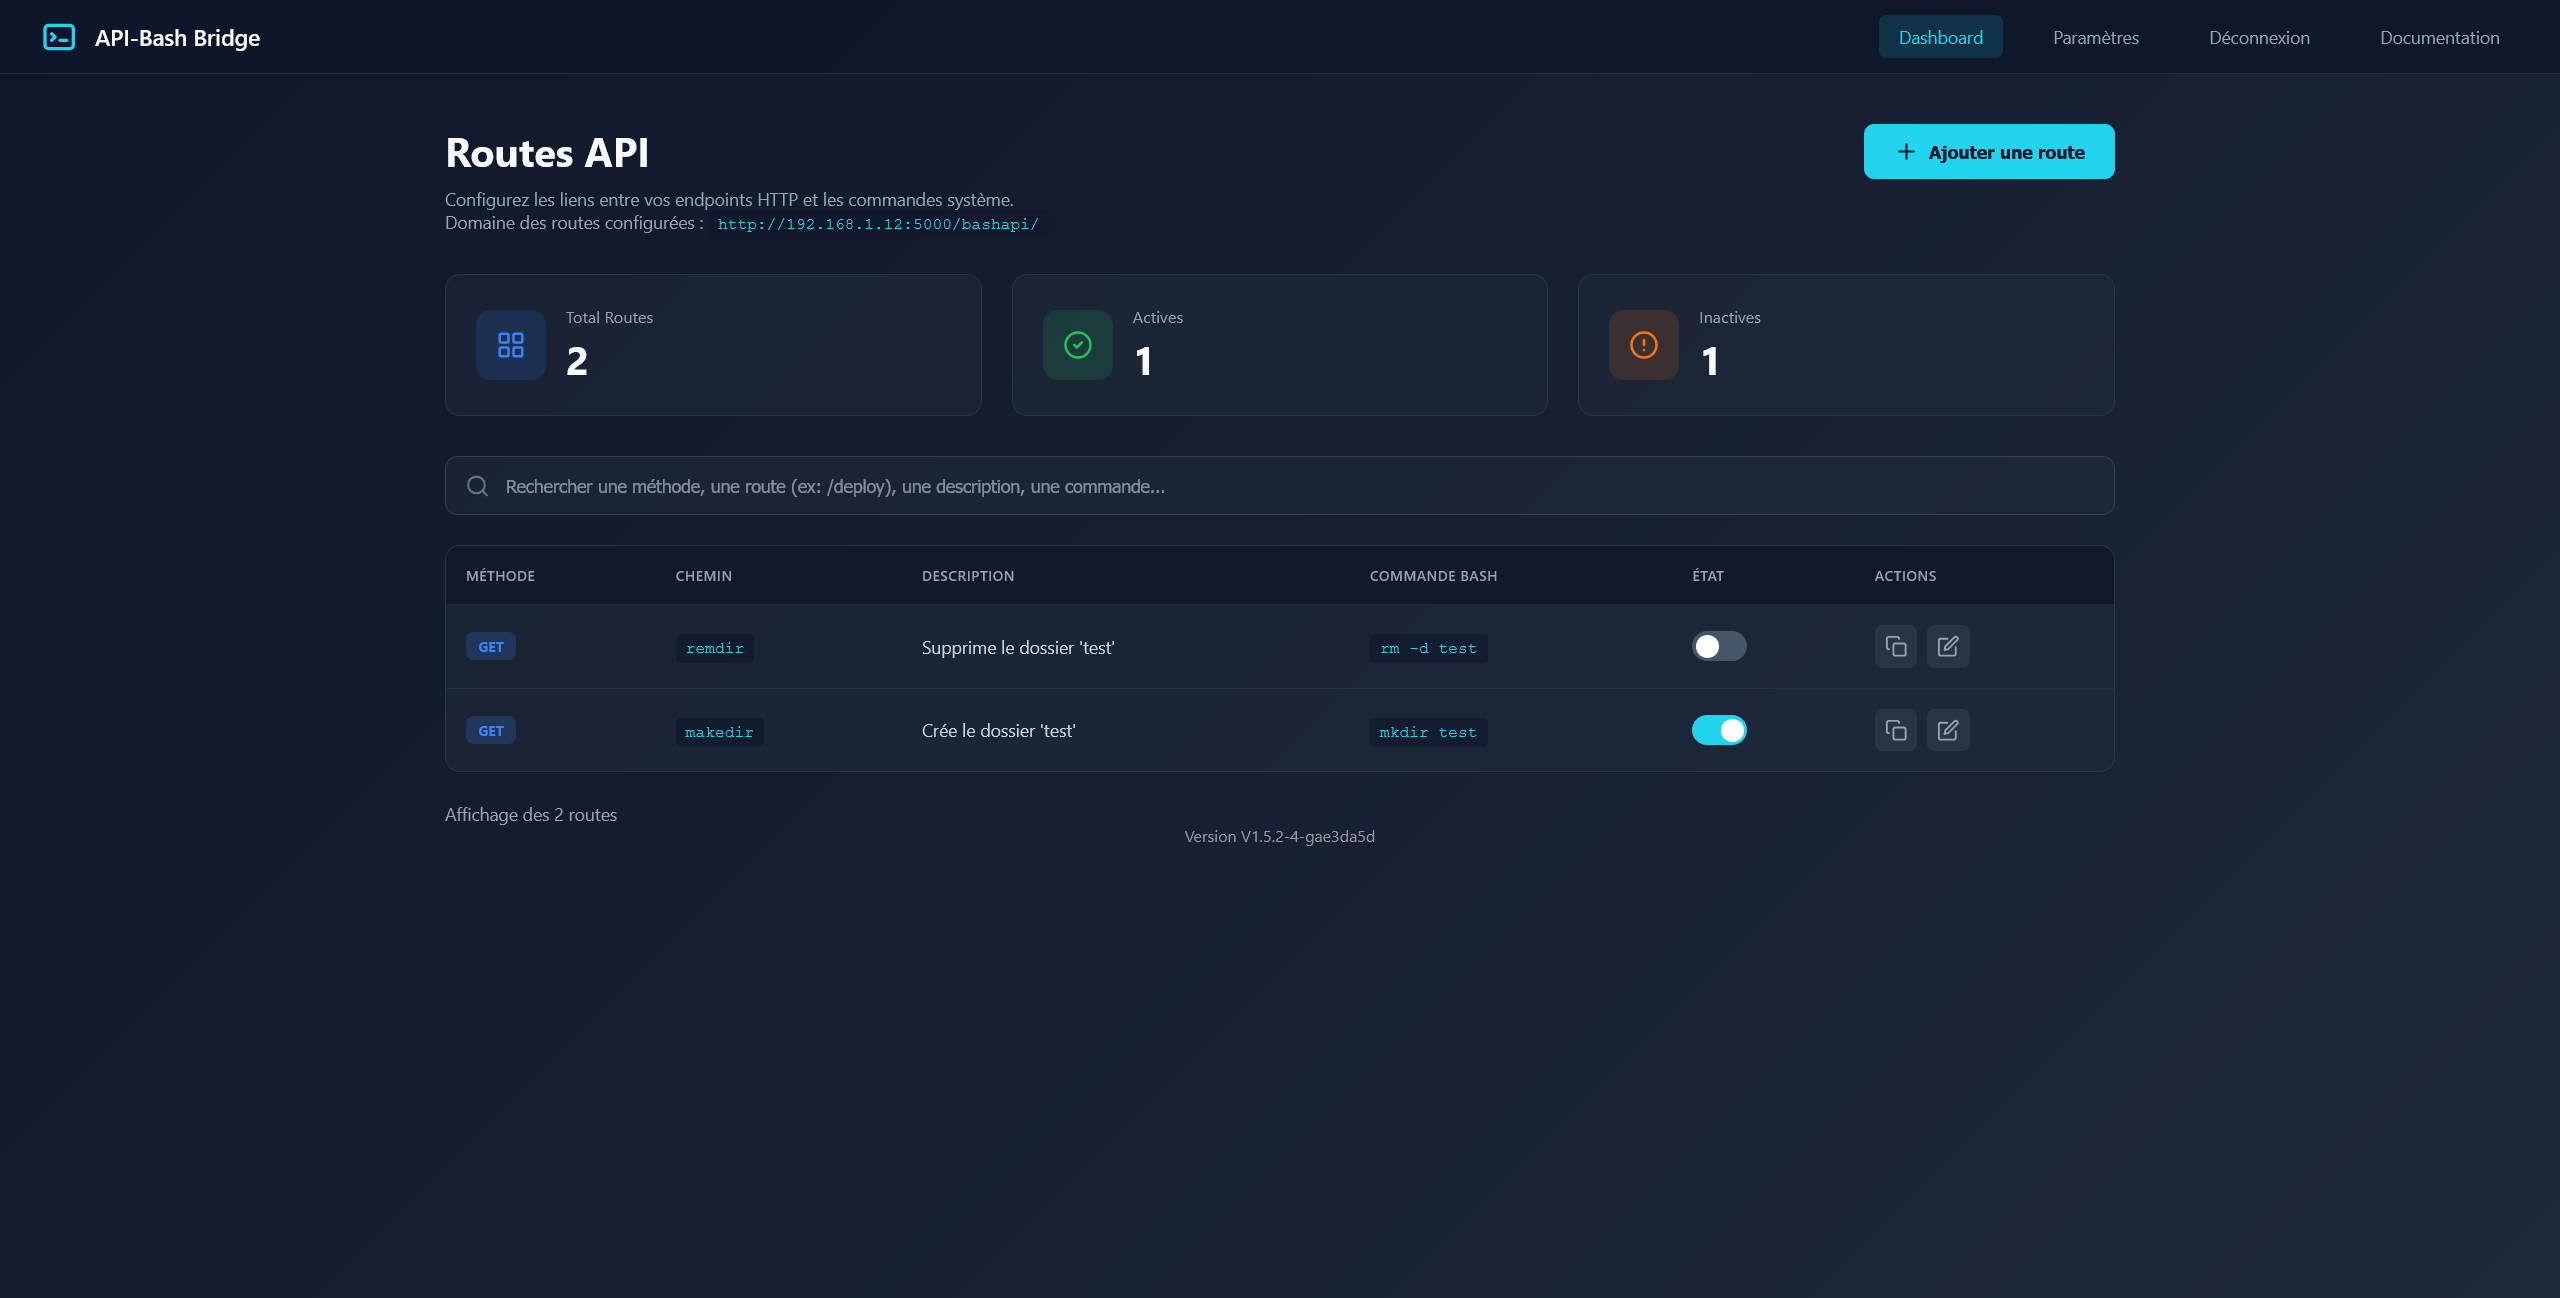
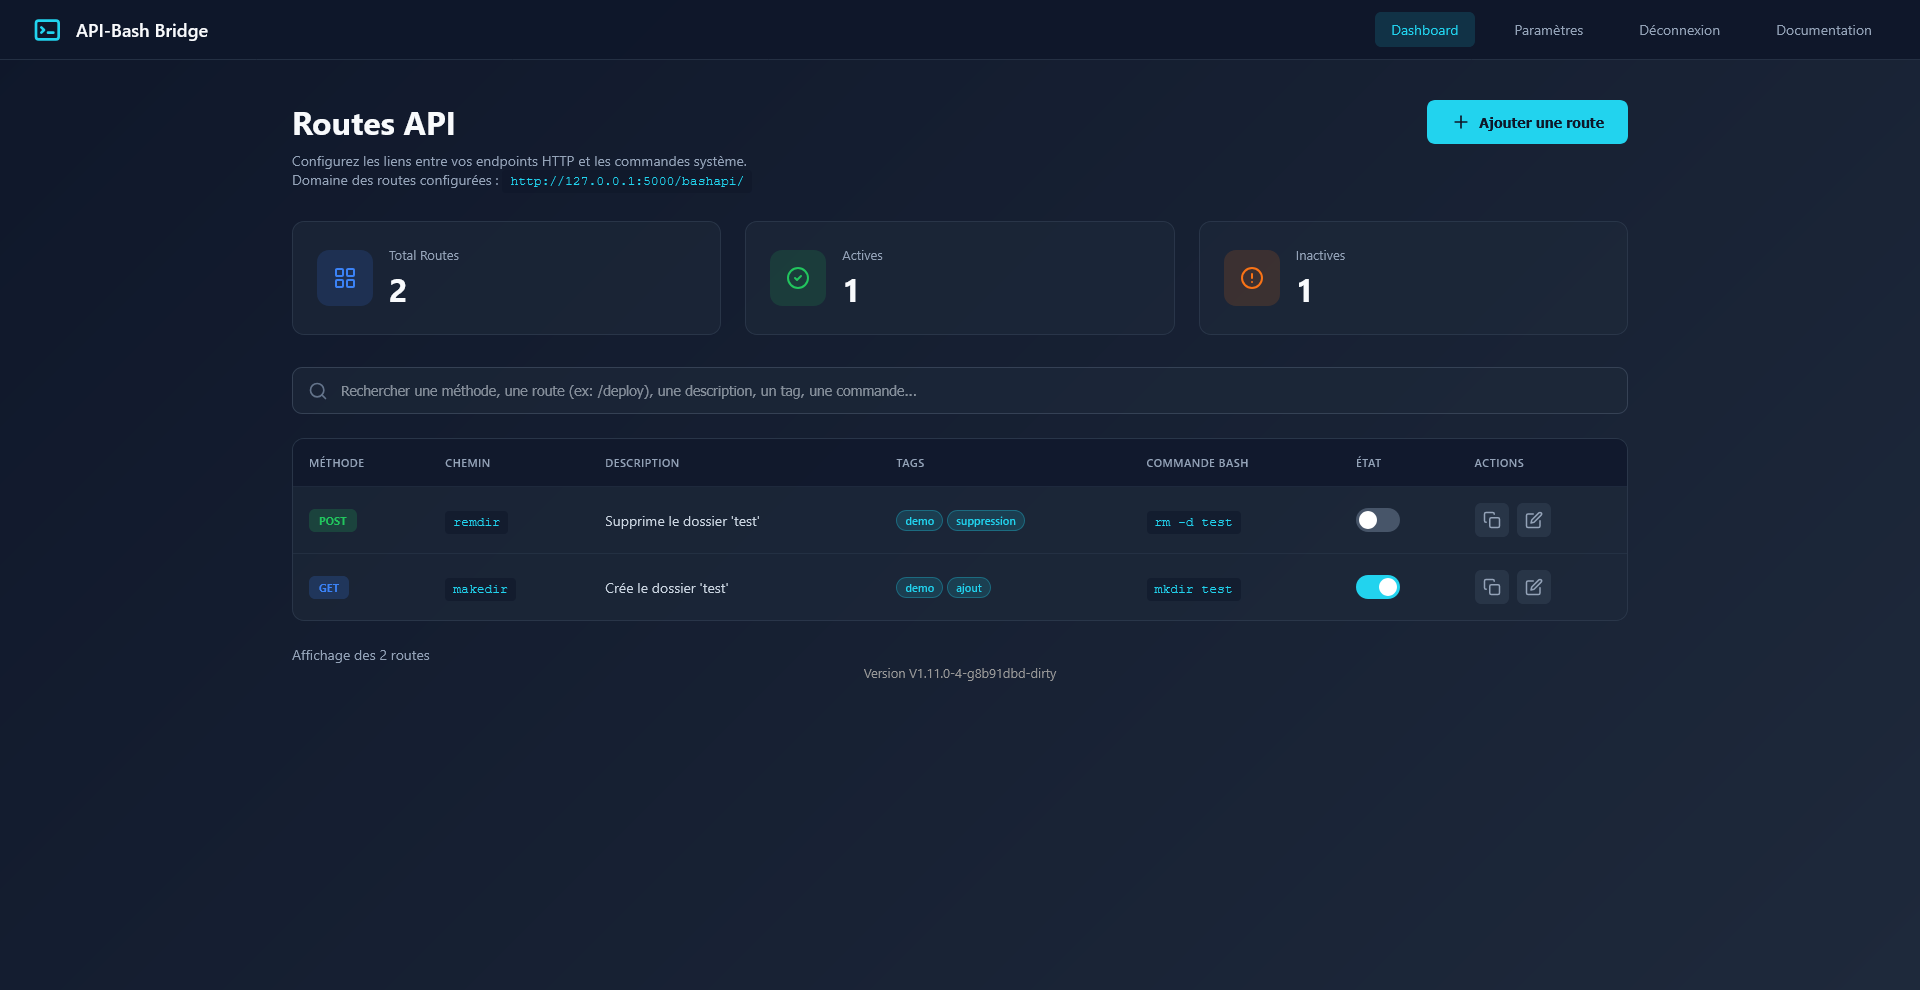
Ajout des tags dans la doc

diff --git a/templates/index.html b/templates/index.html
@@ -121,7 +121,7 @@
                 <circle cx="11" cy="11" r="8" stroke="currentColor" stroke-width="2"/>
                 <path d="M21 21l-4.35-4.35" stroke="currentColor" stroke-width="2" stroke-linecap="round"/>
             </svg>
-            <input type="text" placeholder="Rechercher une méthode, une route (ex: /deploy), une description, une commande...">
+            <input type="text" placeholder="Rechercher une méthode, une route (ex: /deploy), une description, un tag, une commande...">
         </div>
 
         <!-- Routes Table -->

diff --git a/services/doc_utilisation.md b/services/doc_utilisation.md
@@ -33,7 +33,7 @@ Une fois connecté, vous arrivez sur le tableau de bord principal. C'est ici que
 
 - **Statistiques :** Vue rapide sur le nombre de routes actives et inactives.
 
-- **Barre de recherche :** Filtrez vos routes par nom, méthode ou commande.
+- **Barre de recherche :** Filtrez vos routes par nom, méthode, tag ou commande.
 
 - Liste des routes :
 
@@ -55,6 +55,8 @@ Cliquez sur le bouton Ajouter une route en haut à droite du dashboard.
 - **Endpoint Path :** Le chemin de l'URL (ex: deploy/mon-site).
 
     - **Attention :** Ne mettez pas le préfixe API ici, il est ajouté automatiquement.
+
+- **Tags :** Entre les étiquettes associées à cette route, séparées par des virgules. 
 
 - **Script Bash :** Entrez les commandes à exécuter.
 
